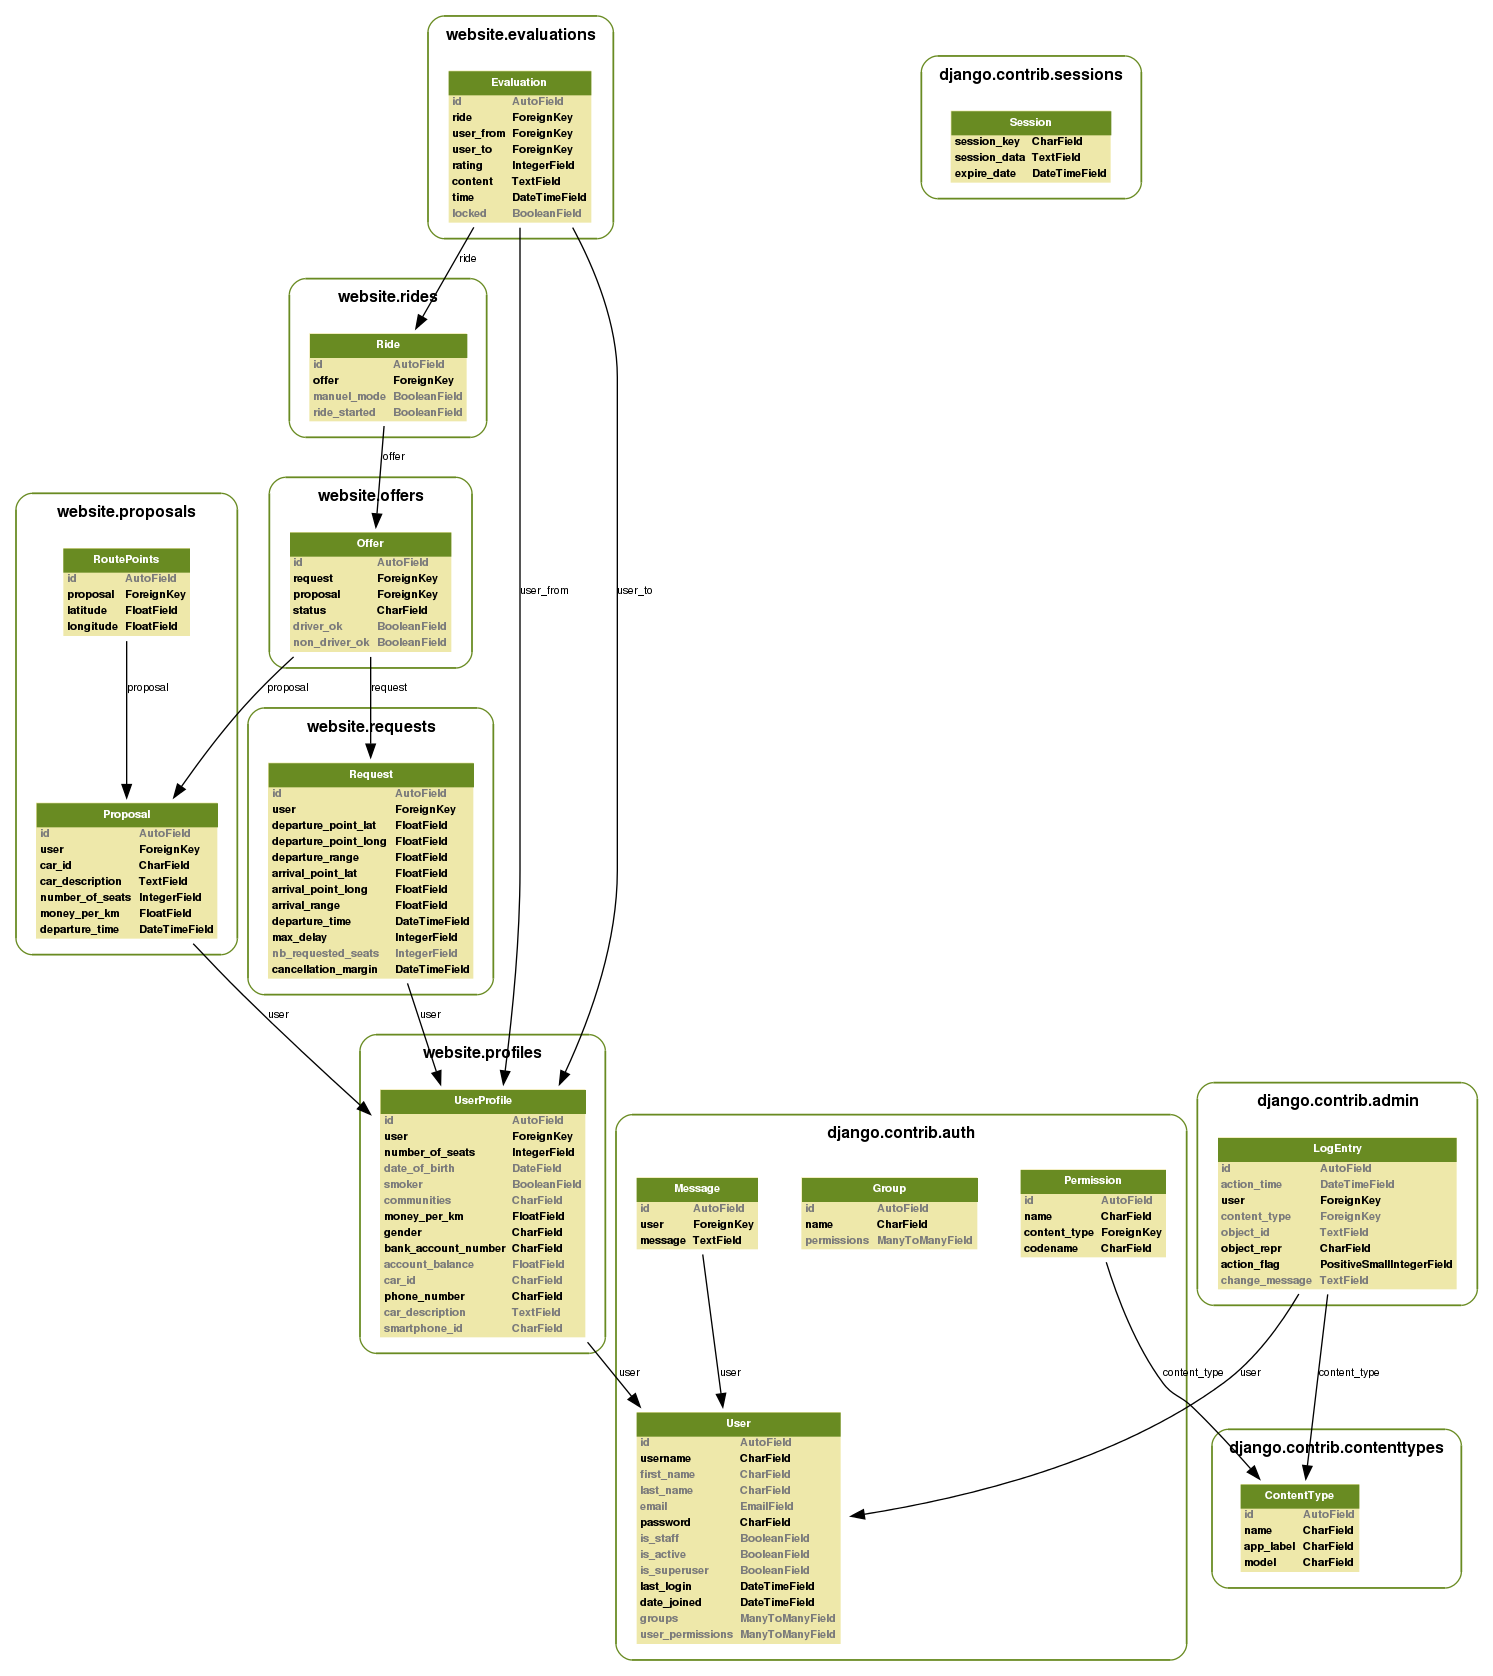
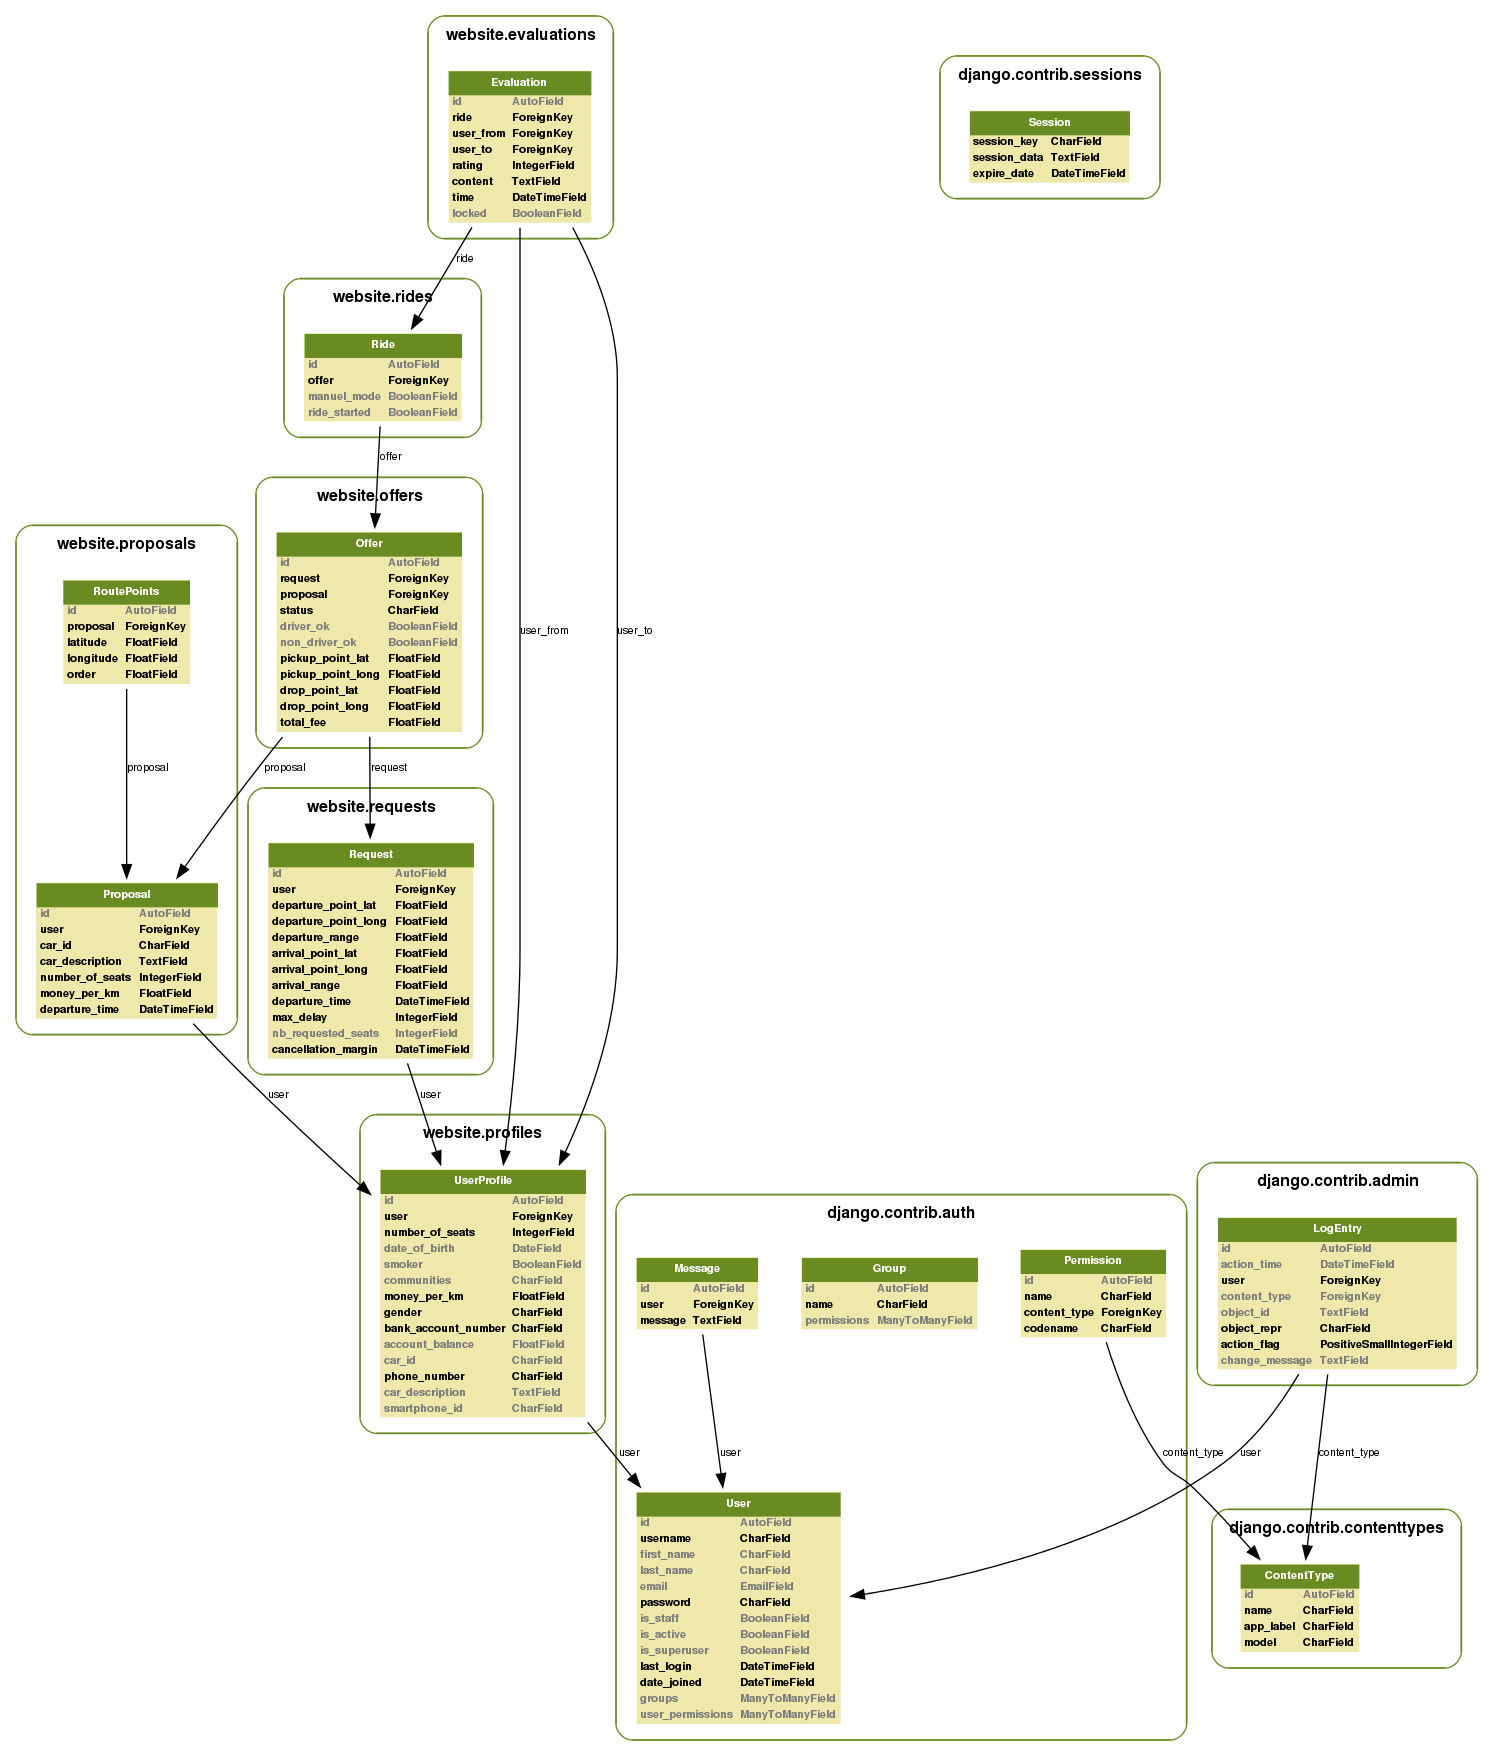
database update
add pickup point, drop point and total fee to the offer table

Changed region(s): [[0.0, 0.0, 0.9859, 0.9928], [0.6162, 0.031, 0.7703, 0.1241]]

diff --git a/website/offers/models.py b/website/offers/models.py
@@ -13,6 +13,11 @@ class Offer(models.Model):
     status = models.CharField(max_length=1, choices=STATUS_CHOICES, default='P')
     driver_ok = models.BooleanField(default=False)
     non_driver_ok = models.BooleanField(default=False)
+    pickup_point_lat = models.FloatField()
+    pickup_point_long = models.FloatField()
+    drop_point_lat = models.FloatField()
+    drop_point_long = models.FloatField()
+    total_fee = models.FloatField()
     
     def __unicode__(self):
         return u'%s %s' % (self.request.user.user.first_name, self.proposal.user.user.last_name)

diff --git a/website/__init__.py b/website/__init__.py
@@ -1,3 +1,4 @@
+"""
 import sys, os
 
 PROJECT_PATH = os.path.abspath(os.path.join(os.path.dirname(__file__)))
@@ -27,4 +28,5 @@ proposal_rec_port = ProposalRecorder(find_pair_port)
 request_rec_port = RequestRecorder(find_pair_port)
 
 print "Car Pooling Server is now runing"
-
+"""
+print "starting server"
